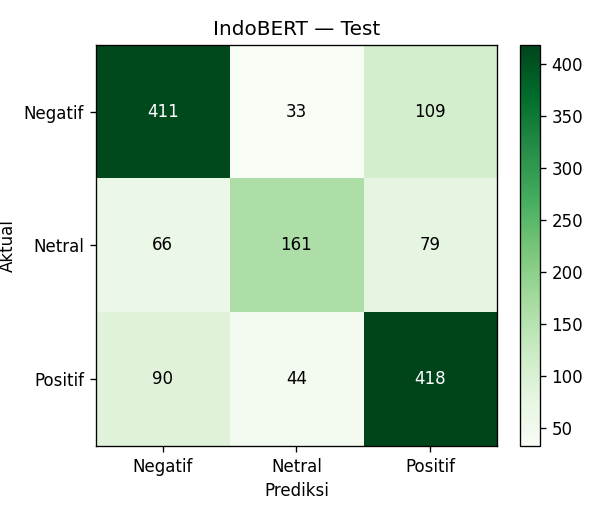
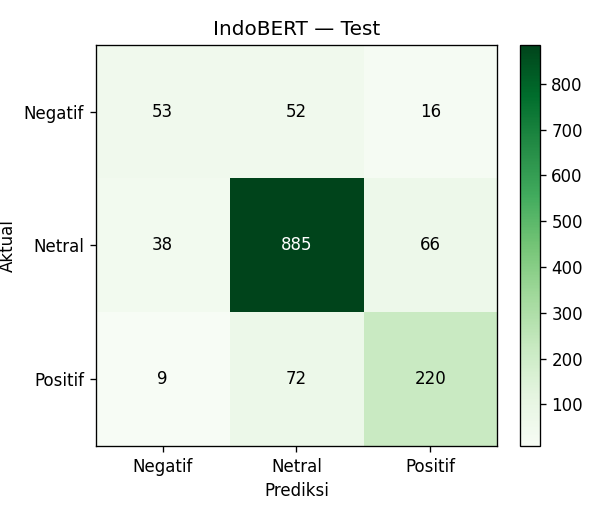
feat: perbandingan 3 model (akurasi) + IndoBERT label baru
IndoBERT label-baru dari Colab (acc 0,8207, test set kanonik 1.411).
Tambah src/modeling/compare_models.py -> model_comparison_full14k.csv +
model_comparison_accuracy.png (chart akurasi 3 model: IndoBERT 0,8207 >
SVM sklearn 0,8115 > SVM Spark 0,7725). Hapus svm_vs_indobert_full14k.png
(stale: IndoBERT label lama, macro-F1). handoff.md sec.6 di-update.

diff --git a/src/modeling/compare_models.py b/src/modeling/compare_models.py
@@ -1,0 +1,89 @@
+"""Perbandingan 3 model (full 14k) — SVM sklearn vs SVM Spark MLlib vs IndoBERT.
+
+Baca metrik test masing-masing dari outputs/reports/*.json (test set kanonik identik:
+urut comment_id, seed 42, 70/20/10 → 1.411 sampel) lalu hasilkan:
+
+  - model_comparison_full14k.csv : tabel akurasi + macro-F1 + F1 per-kelas
+  - model_comparison_accuracy.png : chart batang AKURASI (metrik utama, keputusan
+    user 2026-06-24 — data timpang 70% Netral → akurasi yang dipakai)
+
+Tidak melatih apa pun; murni agregasi artefak yang sudah ada. Jalankan setelah
+ketiga JSON tersedia:  python -m src.modeling.compare_models
+"""
+from __future__ import annotations
+
+import json
+from pathlib import Path
+
+import matplotlib
+
+matplotlib.use("Agg")
+import matplotlib.pyplot as plt
+import pandas as pd
+
+REP = Path("outputs/reports")
+LABELS = ("Negatif", "Netral", "Positif")
+
+# (nama tampil, file metrik). Urut dari baseline klasik -> deep learning.
+SOURCES = (
+    ("SVM sklearn", "svm_full14k_metrics.json"),
+    ("SVM Spark MLlib", "svm_spark_metrics.json"),
+    ("IndoBERT", "indobert_metrics.json"),
+)
+
+
+def _f1(per_class: dict, label: str) -> float:
+    """Ambil F1 satu kelas; toleran key 'f1' (SVM) maupun 'f1-score' (IndoBERT)."""
+    cell = per_class[label]
+    return float(cell.get("f1", cell.get("f1-score")))
+
+
+def _load(fname: str) -> dict:
+    path = REP / fname
+    if not path.exists():
+        raise SystemExit(
+            f"Metrik tak ada: {path}. Pastikan ketiga model sudah dievaluasi "
+            f"(IndoBERT: taruh indobert_metrics.json dari Colab di outputs/reports/)."
+        )
+    return json.load(open(path))["test"]
+
+
+def main() -> None:
+    rows = []
+    for name, fname in SOURCES:
+        t = _load(fname)
+        rows.append(
+            {
+                "model": name,
+                "accuracy": round(float(t["accuracy"]), 4),
+                "macro_f1": round(float(t["macro_f1"]), 4),
+                **{f"f1_{lab.lower()}": round(_f1(t["per_class"], lab), 4) for lab in LABELS},
+            }
+        )
+
+    df = pd.DataFrame(rows)
+    out_csv = REP / "model_comparison_full14k.csv"
+    df.to_csv(out_csv, index=False)
+
+    # --- chart AKURASI (metrik utama) ---
+    best_i = int(df["accuracy"].idxmax())
+    colors = ["#4C72B0", "#55A868", "#DD8452"]
+    fig, ax = plt.subplots(figsize=(6.5, 4.2))
+    bars = ax.bar(df["model"], df["accuracy"], color=colors, width=0.55)
+    ax.set_ylim(0, min(1.0, df["accuracy"].max() + 0.12))
+    ax.set_ylabel("Akurasi (test, n=1.411)")
+    ax.set_title("Perbandingan Model (full 14k) — metrik utama: Akurasi")
+    for i, (bar, v) in enumerate(zip(bars, df["accuracy"])):
+        label = f"{v:.4f}" + ("  ★" if i == best_i else "")
+        ax.text(bar.get_x() + bar.get_width() / 2, v + 0.005, label, ha="center", va="bottom")
+    fig.tight_layout()
+    out_png = REP / "model_comparison_accuracy.png"
+    fig.savefig(out_png, dpi=120)
+
+    print(df.to_string(index=False))
+    print(f"\n-> Akurasi tertinggi: {df.loc[best_i, 'model']} ({df.loc[best_i, 'accuracy']})")
+    print(f"Disimpan: {out_csv}\n          {out_png}")
+
+
+if __name__ == "__main__":
+    main()

diff --git a/handoff.md b/handoff.md
@@ -89,10 +89,18 @@ cp outputs/labeling/labeling_dataset.backup_20260624.csv outputs/labeling/labeli
 
 ## 6. Sisa pekerjaan
 
-- [ ] IndoBERT Colab (kamu) → `indobert_metrics.json`.
-- [ ] Regen perbandingan 3 model + update laporan PDF (setelah IndoBERT).
-      **Metrik utama = AKURASI** (keputusan user 2026-06-24; macro-F1 dibuang dari
-      tabel/chart karena data timpang 70% Netral → akurasi yang dipakai).
+- [x] **(SELESAI 2026-06-24) IndoBERT Colab** → `outputs/reports/indobert_metrics.json`
+      (label baru, test set kanonik 1.411 identik SVM). Akurasi **0,8207**, macro-F1 0,698,
+      F1 Neg 0,480 / Net 0,886 / Pos 0,730.
+- [x] **(SELESAI 2026-06-24) Regen perbandingan 3 model** via `src/modeling/compare_models.py`
+      → `outputs/reports/model_comparison_full14k.csv` + `model_comparison_accuracy.png`.
+      **Metrik utama = AKURASI** (keputusan user; macro-F1 tetap dicatat di CSV tapi chart
+      pakai akurasi). Hasil akurasi: **IndoBERT 0,8207** > SVM sklearn 0,8115 > SVM Spark
+      0,7725 (IndoBERT menang tipis; SVM sklearn justru unggul F1 Negatif 0,502). Chart lama
+      `svm_vs_indobert_full14k.png` (2-model macro-F1, IndoBERT label LAMA) DIHAPUS — stale.
+- [ ] **Update laporan** (`laporan/BD II - 2305551076.docx/.pdf`, manual) dgn tabel+chart
+      perbandingan 3 model di atas. Dokumen di-maintain manual → tempel artefak dari
+      `outputs/reports/model_comparison_*`.
 - [x] **(SELESAI 2026-06-24) Fix over-stemming Sastrawi** `setuju→tuju`,
       `sependapat→dapat`. Kata `setuju/sependapat/sepaham/sepakat` didaftarkan sbg root
       word ke kamus stemmer di `src/spark/udf.py` (+`_backfill_processed_svm.py`), WAJIB